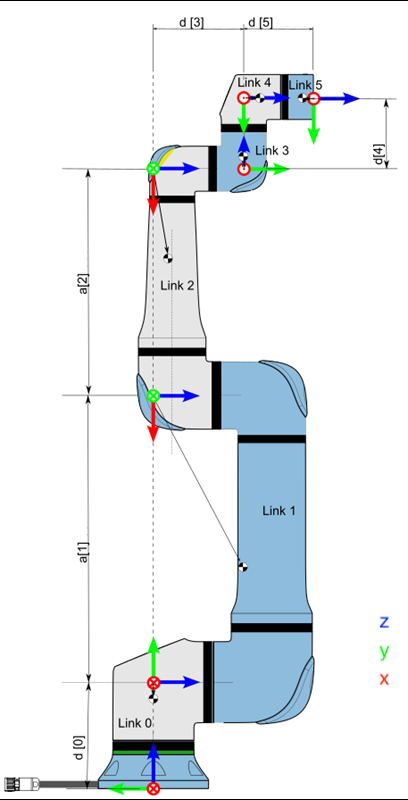
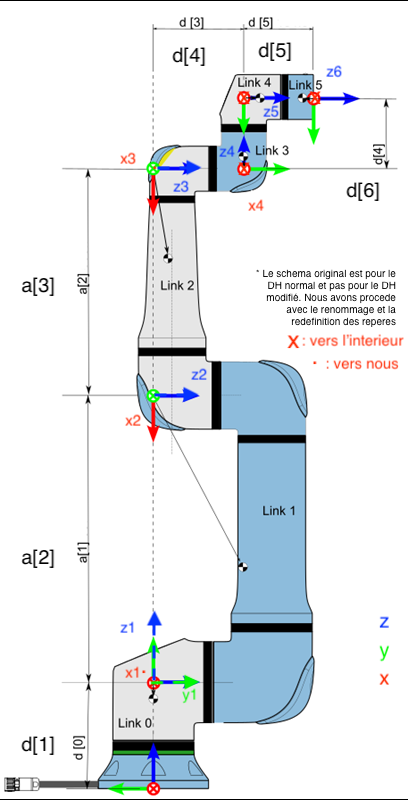
updated

diff --git a/Project/project.m b/Project/project.m
@@ -22,6 +22,7 @@ fprintf('\nDH Modifiés du UR5\n');
 
 % Dimensions du UR5
 % source: https://www.universal-robots.com/articles/ur/application-installation/dh-parameters-for-calculations-of-kinematics-and-dynamics/
+% https://forum.universal-robots.com/t/denavit-hartenberg-parameters-for-ur5-classical-or-the-modified/21698/3 (verification que ca suit le DH classic)
 d1 = 0.089159;   % Distance axe 1-2
 a2 = -0.42500;   % Longueur du bras
 a3 = -0.39225;   % Longueur de l'avant-bras
@@ -69,7 +70,7 @@ T_toolbox = getTransform(robot, q_test, 'tool0');
 fprintf('\nMatrice de transformation T_06 (Robotics System Toolbox):\n');
 disp(T_toolbox);
 
-fprintf('\n On observe que les deux matrices de transformation sont identiques.\n');
+
 
 figure;
 show(robot, q_test); % pose est verifie sur la figure affichée